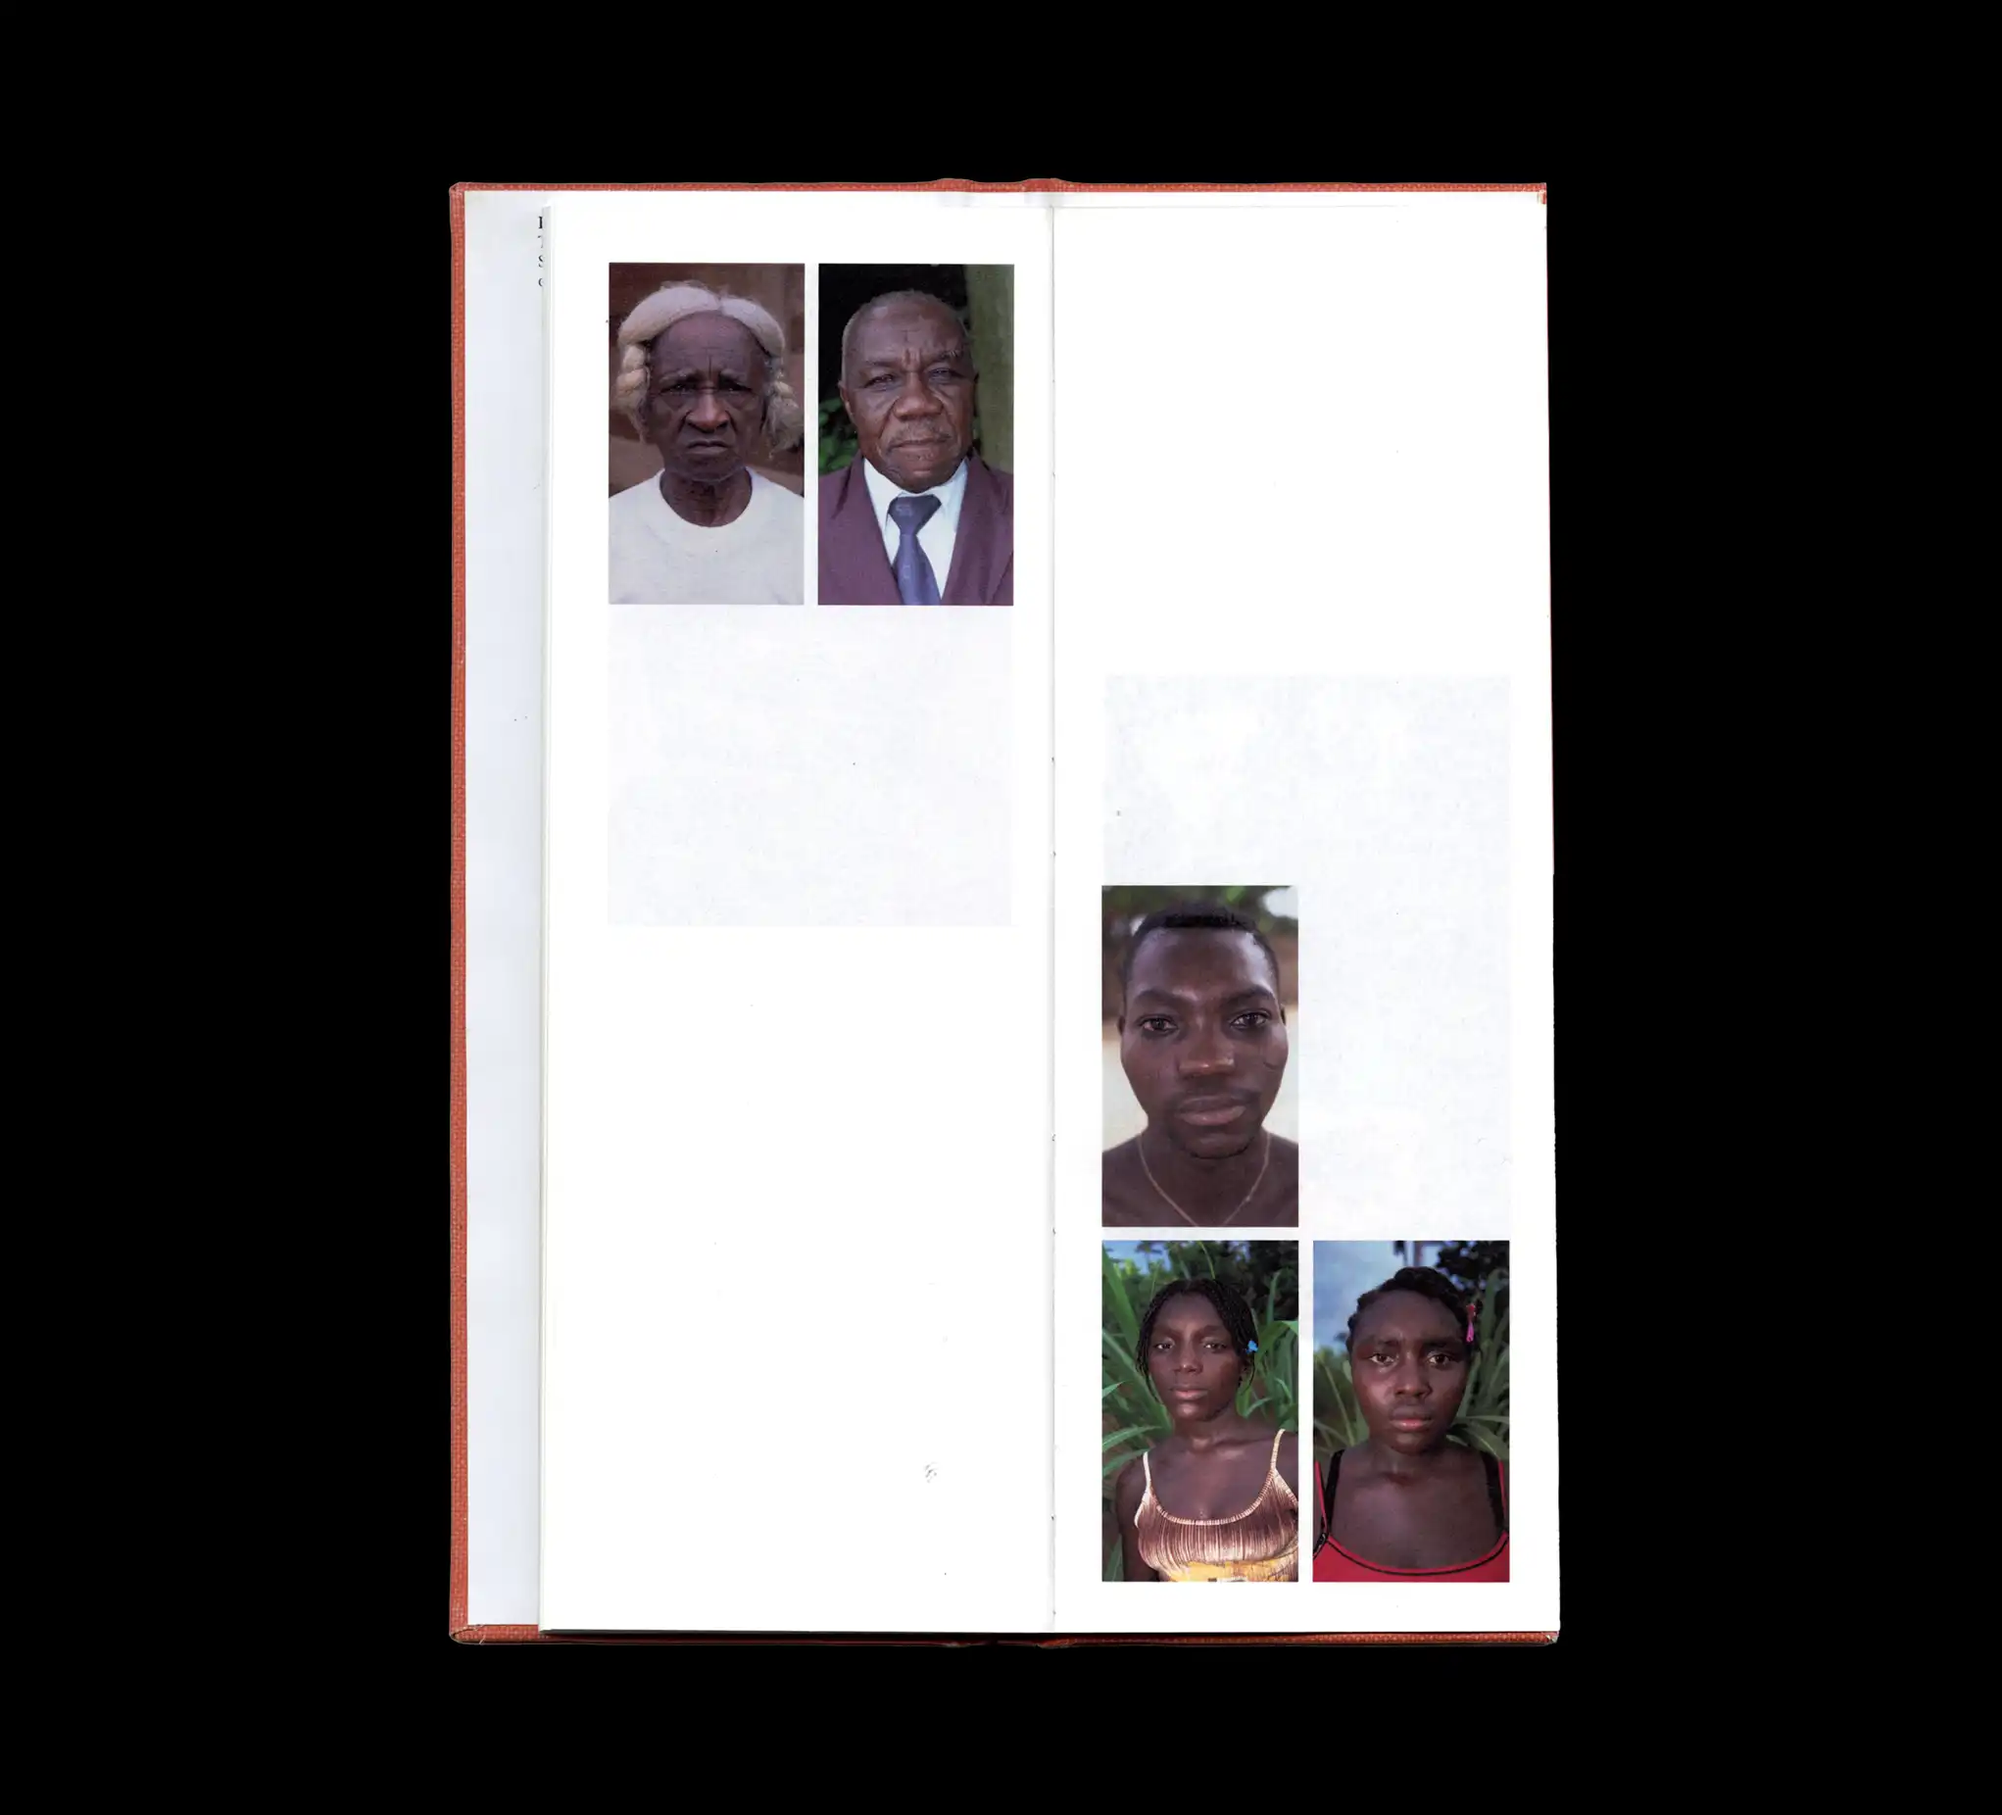
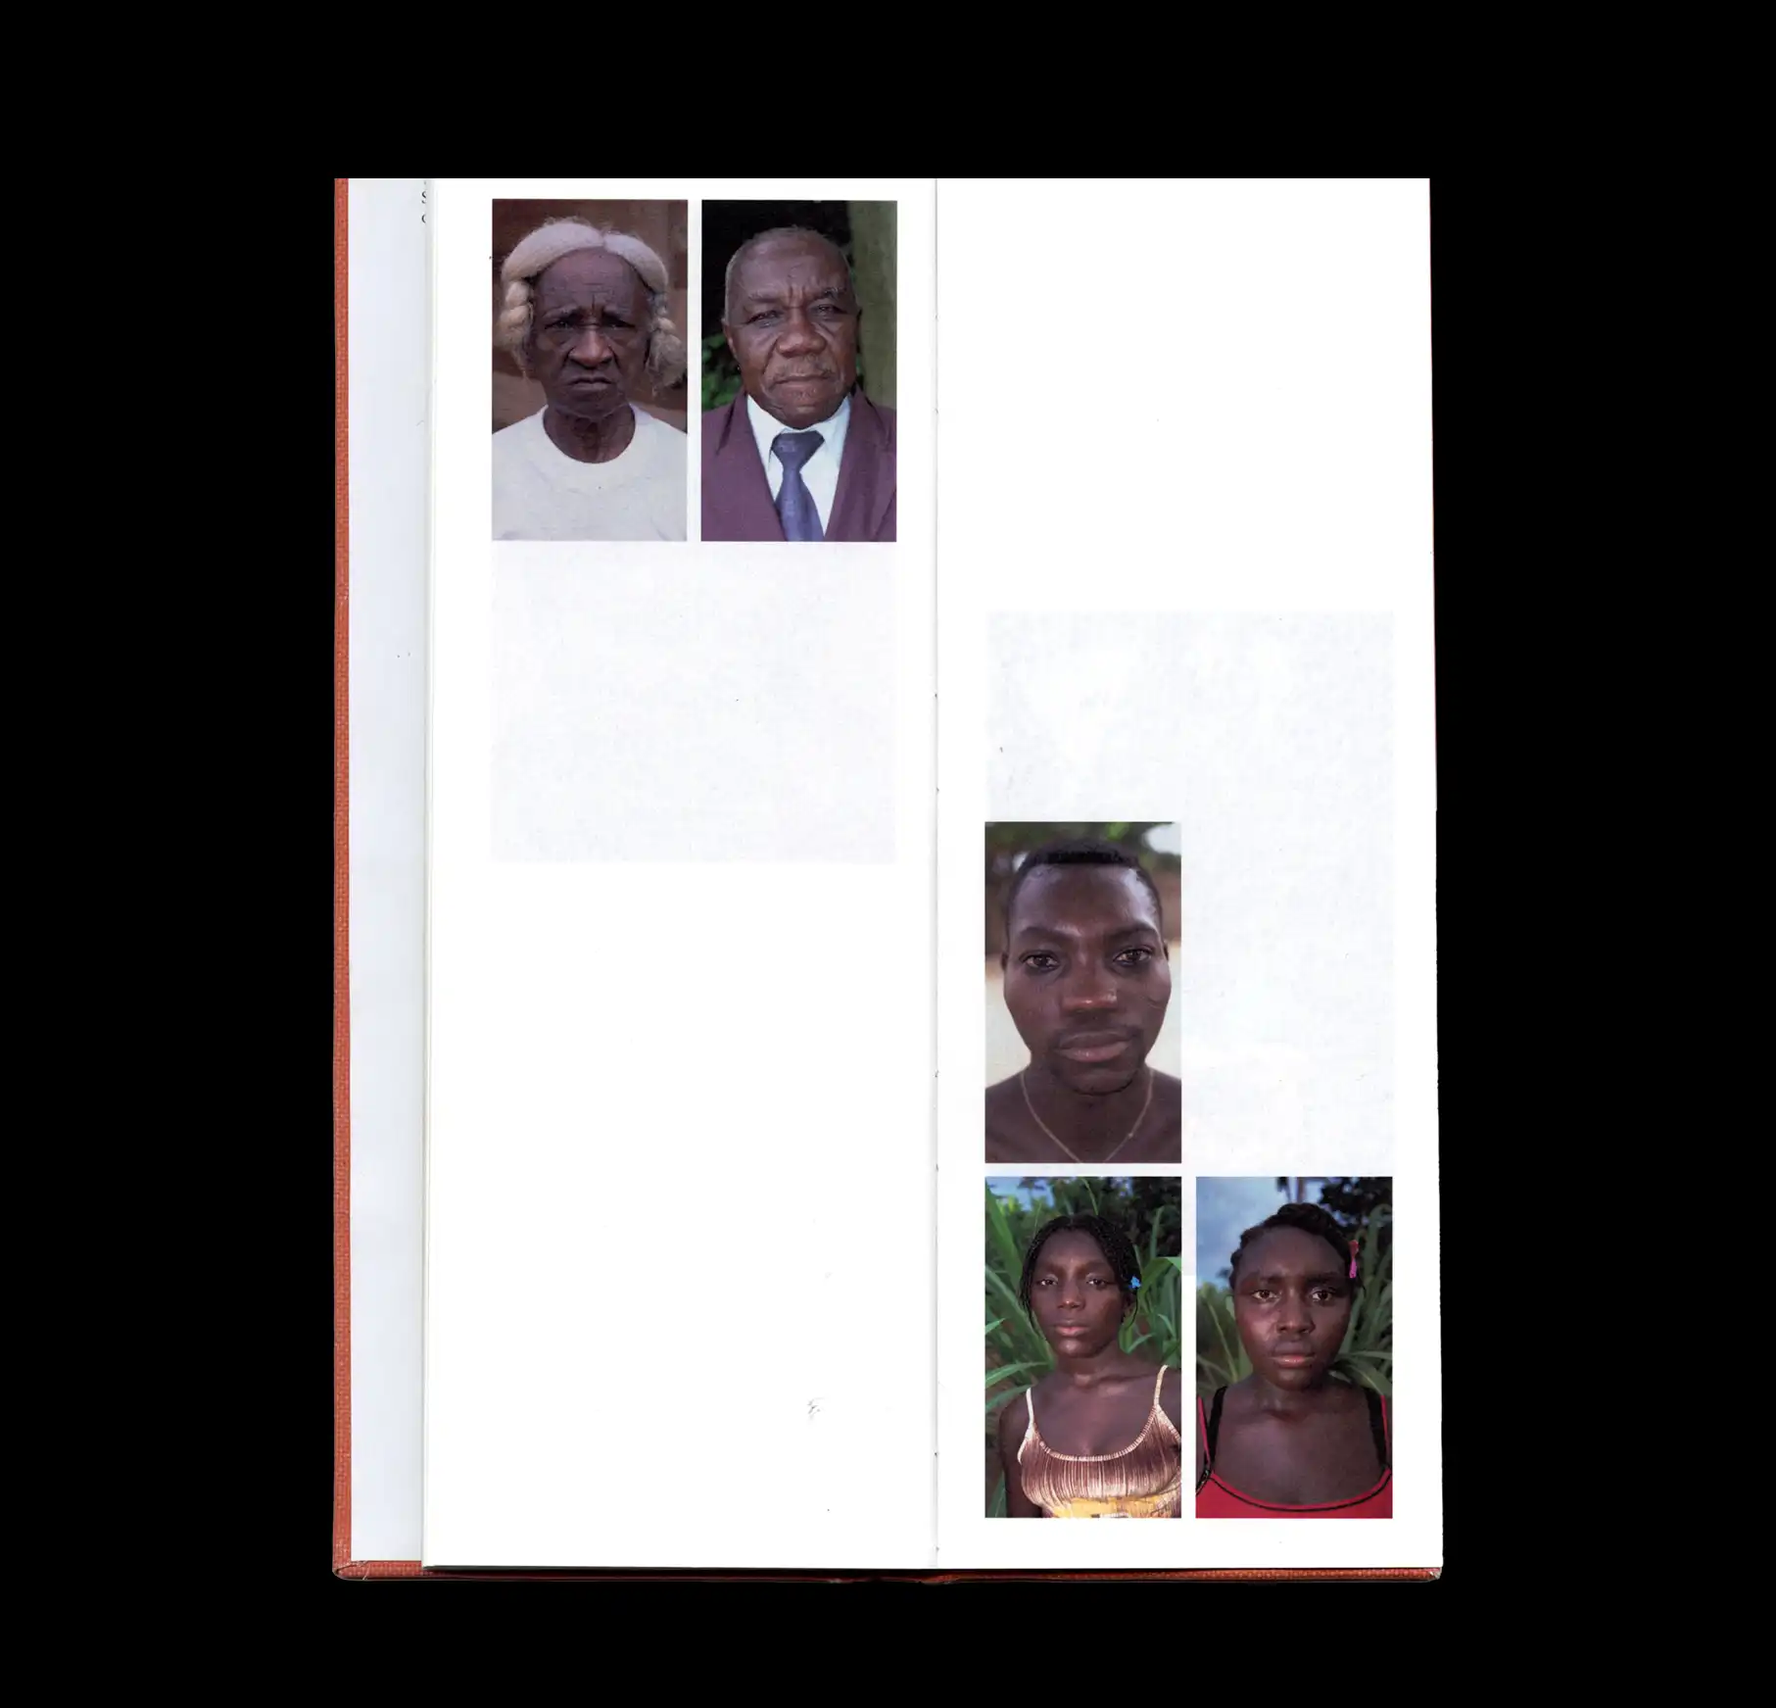
updates-final

Changed region(s): [[0.1853, 0.0929, 0.834, 0.9294]]

diff --git a/style.css b/style.css
@@ -188,7 +188,6 @@ header {
     position: fixed;
     width: 1.5%;
     height: auto;
-    z-index: 999;
 
 
   }
@@ -302,10 +301,10 @@ header {
 .project-one-pic-one{
     position: absolute;
     width: 100%;
-    max-width: 27%;
+    max-width: 31%;
     top: -14.5vh;
     opacity: 1;
-    right: 78vw;
+    right: 77vw;
     transition: opacity 0.2s ease;
 
 }
@@ -313,10 +312,10 @@ header {
 .project-one-pic-two{
     position: absolute;
     width: 100%;
-    max-width: 27%;
+    max-width: 31%;
     top: -14.5vh;
     opacity: 0;
-    right: 78vw;
+    right: 77vw;
 }
 
 .image-hover-container:hover .project-one-pic-one {
@@ -336,21 +335,20 @@ header {
 .project-two-pic-one{
     position: absolute;
     width: 100%;
-    max-width: 53%;
+    max-width: 63%;
     height: auto;
     top: -16.5vh;
     opacity: 1;
-    right: 8vw;
+    right: 6vw;
 }
 
 .project-two-pic-two{
     position: absolute;
     width: 100%;
-    max-width: 53%;
-    right: 8vw;
+    max-width: 63%;
+    right: 6vw;
     top: -16.5vh;
     opacity: 0;
-
 }
 
 .image-hover-container:hover .project-two-pic-one {
@@ -371,10 +369,10 @@ header {
 .project-three-pic-one{
     position: relative;
     width: 100%;
-    max-width: 28%;
+    max-width: 33%;
     height: auto;
-    top: -22.5vh;
-    right:45vw;
+    top: -25.2vh;
+    right:44vw;
     opacity: 1;
     margin-right: 15vw;
 }
@@ -382,10 +380,10 @@ header {
 .project-three-pic-two{
     position: relative;
     width: 100%;
-    max-width: 28%;
+    max-width: 33%;
     height: auto;
-    top: -22.5vh;
-    right:45vw;
+    top: -25.2vh;
+    right:44vw;
     opacity: 0;
     margin-right: 15vw;
 }
@@ -409,22 +407,22 @@ header {
 .project-four-pic-one{
     position: relative;
     width: 100%;
-    max-width:35%;
+    max-width:37%;
     height: auto;
     opacity: 1;
-    top:-6vh;
-    right: 36vw;
+    top:-2vh;
+    right: 38vw;
 
 }
 
 .project-four-pic-two{
     position: relative;
     width: 100%;
-    max-width:35%;
+    max-width:37%;
     height: auto;
     opacity: 0;
-    top:-6vh;
-    right: 36vw;
+    top:-2vh;
+    right: 38vw;
 
 }
 
@@ -481,7 +479,7 @@ header {
 
 .me2 {
   width:35%;
-  margin-bottom: 17vh;
+  margin-bottom: 20vh;
   margin-left: 20vw;
   height: auto;
   filter: drop-shadow(0 0 0.20rem rgb(65, 64, 64));
@@ -610,7 +608,7 @@ color: black;
   top: 0; 
   width: 100vw; 
   height: 100vh;
-  background:rgba(0, 0, 0, 0.902);;
+  background:rgba(255, 255, 255, 0.778);;
   z-index: 997;
 
 }
@@ -626,9 +624,9 @@ color: black;
   inset: 0;
   z-index: 998;
   flex-wrap: wrap;  
-  top:1vh;
+  top:10vh;
   line-height: 0;
-  gap: -1.5rem 0.5rem;  
+  gap: -0.5rem ;  
   cursor: alias;
 }
 
@@ -639,7 +637,7 @@ color: black;
 }
 
 .overlay-image:hover {
-  transform: scale(1.2);
+  transform: scale(1.1);
   cursor:crosshair;
 }
 
@@ -653,7 +651,6 @@ color: black;
   font-family: Main;
   text-transform: uppercase;
   font-size: 0.8rem;
-  z-index: 999 !important;
 }
 
 @media only screen and (max-width:600px), (min-wdth:600px) {

diff --git a/index.html b/index.html
@@ -167,6 +167,7 @@
 
 
        <div class="scroll-down-for-more">
+  
       </div>
 
 
@@ -241,40 +242,53 @@
               "projects/project-two/fourth-page.webp",
               "projects/project-two/third-page.webp",
               "projects/project-two/first-page.webp",
+              "projects/project-two/seventh-page.webp",
+              "projects/project-two/ninth-page.webp",
               
             ],
 
-            imageWidth: "27%",
-            title: "This is a picture I had to take.",
+            imageWidth: "24%",
+    
           },
           2: {
             images: [
-              "projects/project-one/sixth-page.webp",
-              "projects/project-one/third-page.webp",
-              "projects/project-one/fourth-page.webp",
+              "projects/project-one/one.webp",
+              "projects/project-one/two.webp",
+              "projects/project-one/three.webp",
+              "projects/project-one/four.webp",
+              "projects/project-one/five.webp",
+              "projects/project-one/six.webp",
+          
 
 
-            ],
-
-            imageWidth: "30%", maxWidth: "50%"
+            ]
+            ,imageWidth: "32%", maxWidth: "50%"
       
           },
           3: {
             images: [
-              "projects/project-four/livret.webp",
-              "projects/project-four/livret-open.webp"
+              "projects/project-four/one.webp",
+              "projects/project-four/two.webp",
+              "projects/project-four/three.webp",
+          
             ],
+
+            imageWidth: "30%", maxWidth: "50%"
 
           },
           4: {
             images: [
-              "projects/project-three/open.webp", 
-              "projects/project-three/first-open.webp",
-              "projects/project-three/second-open.webp",
+              "projects/project-three/one.webp", 
+              "projects/project-three/two.webp", 
+              "projects/project-three/three.webp",  
+              "projects/project-three/four.webp", 
+              "projects/project-three/five.webp",
+              
+  
         
             ],
 
-            imageWidth: "30%", maxWidth: "50%"
+            imageHeight: "40vh", maxWidth: "50%"
 
         
 
@@ -313,6 +327,7 @@
               }
               media.classList.add('overlay-image');
               media.style.width = project.imageWidth; 
+              media.style.height = project.imageHeight;
               projectPlus.appendChild(media);
   
             });
